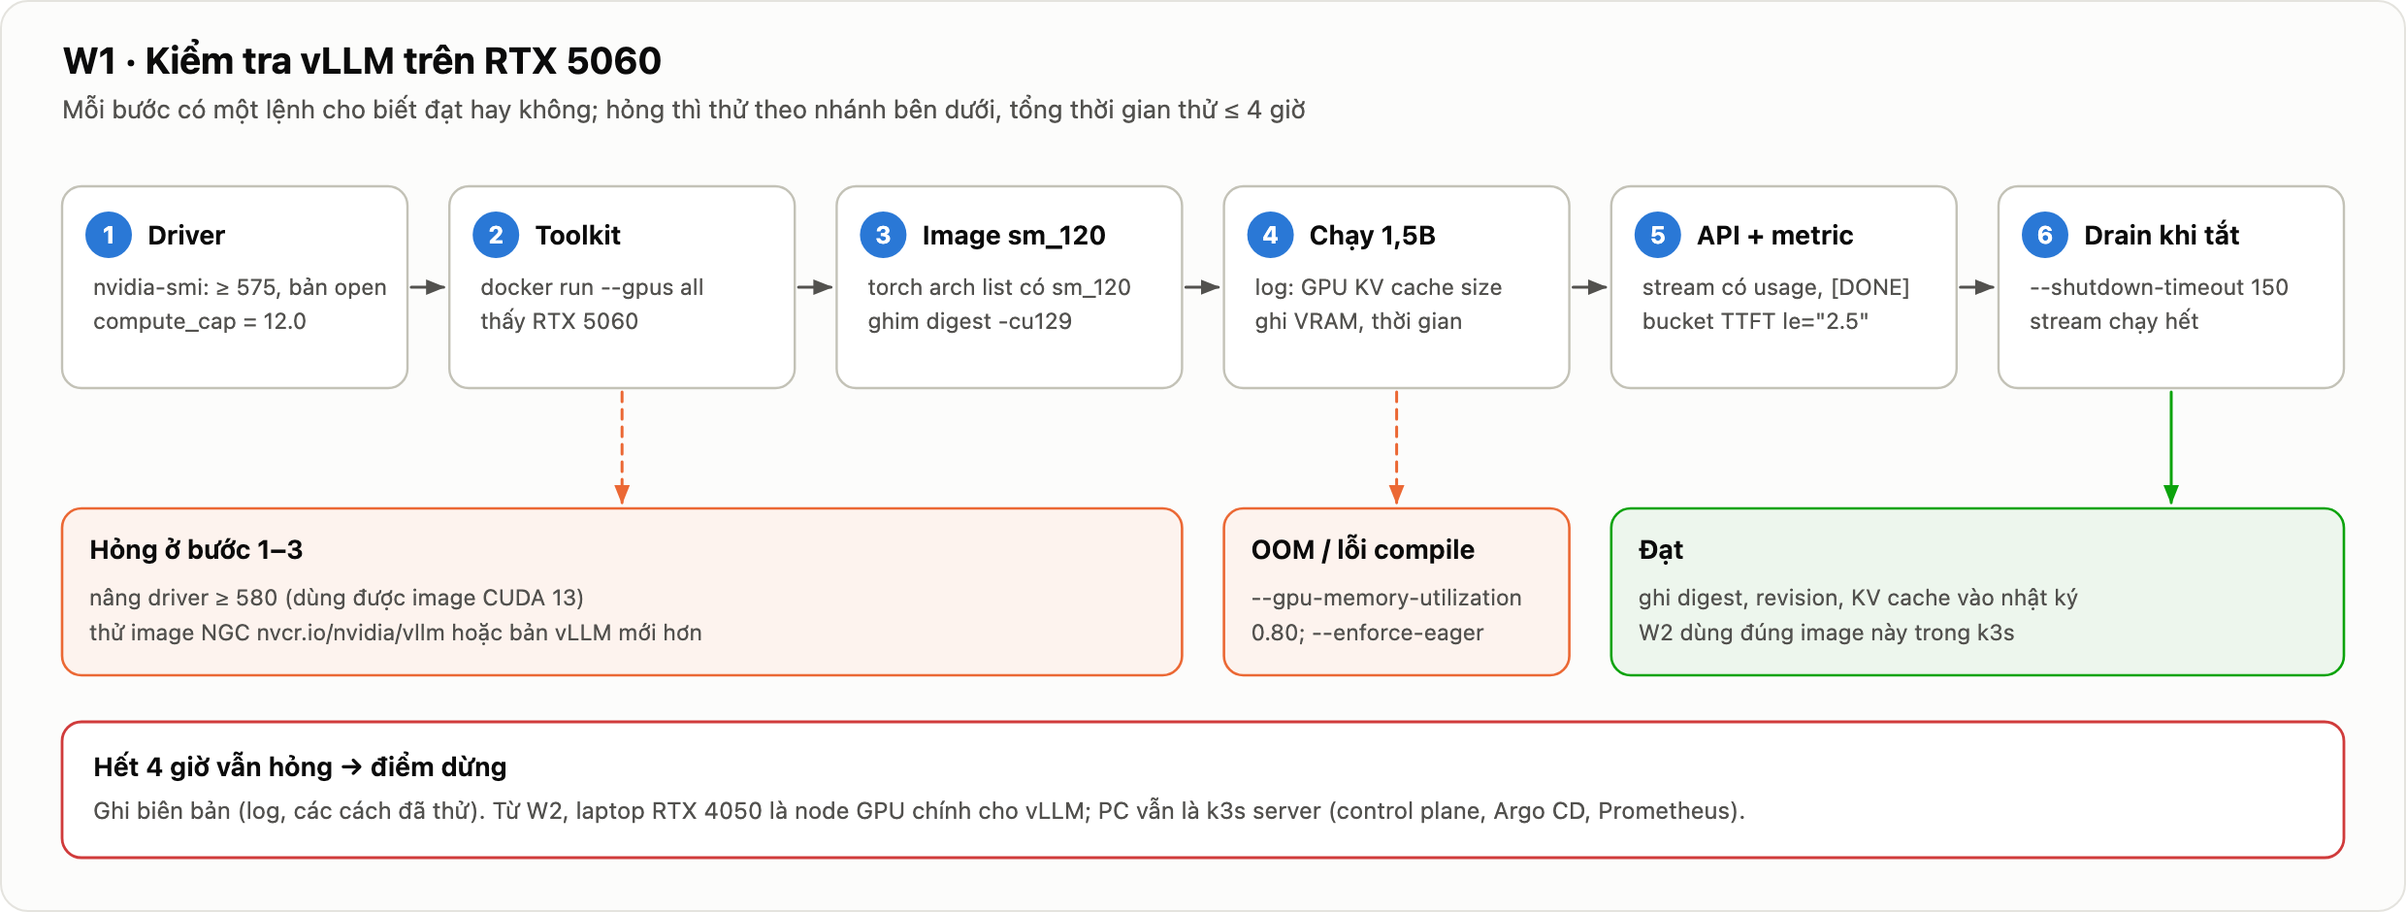
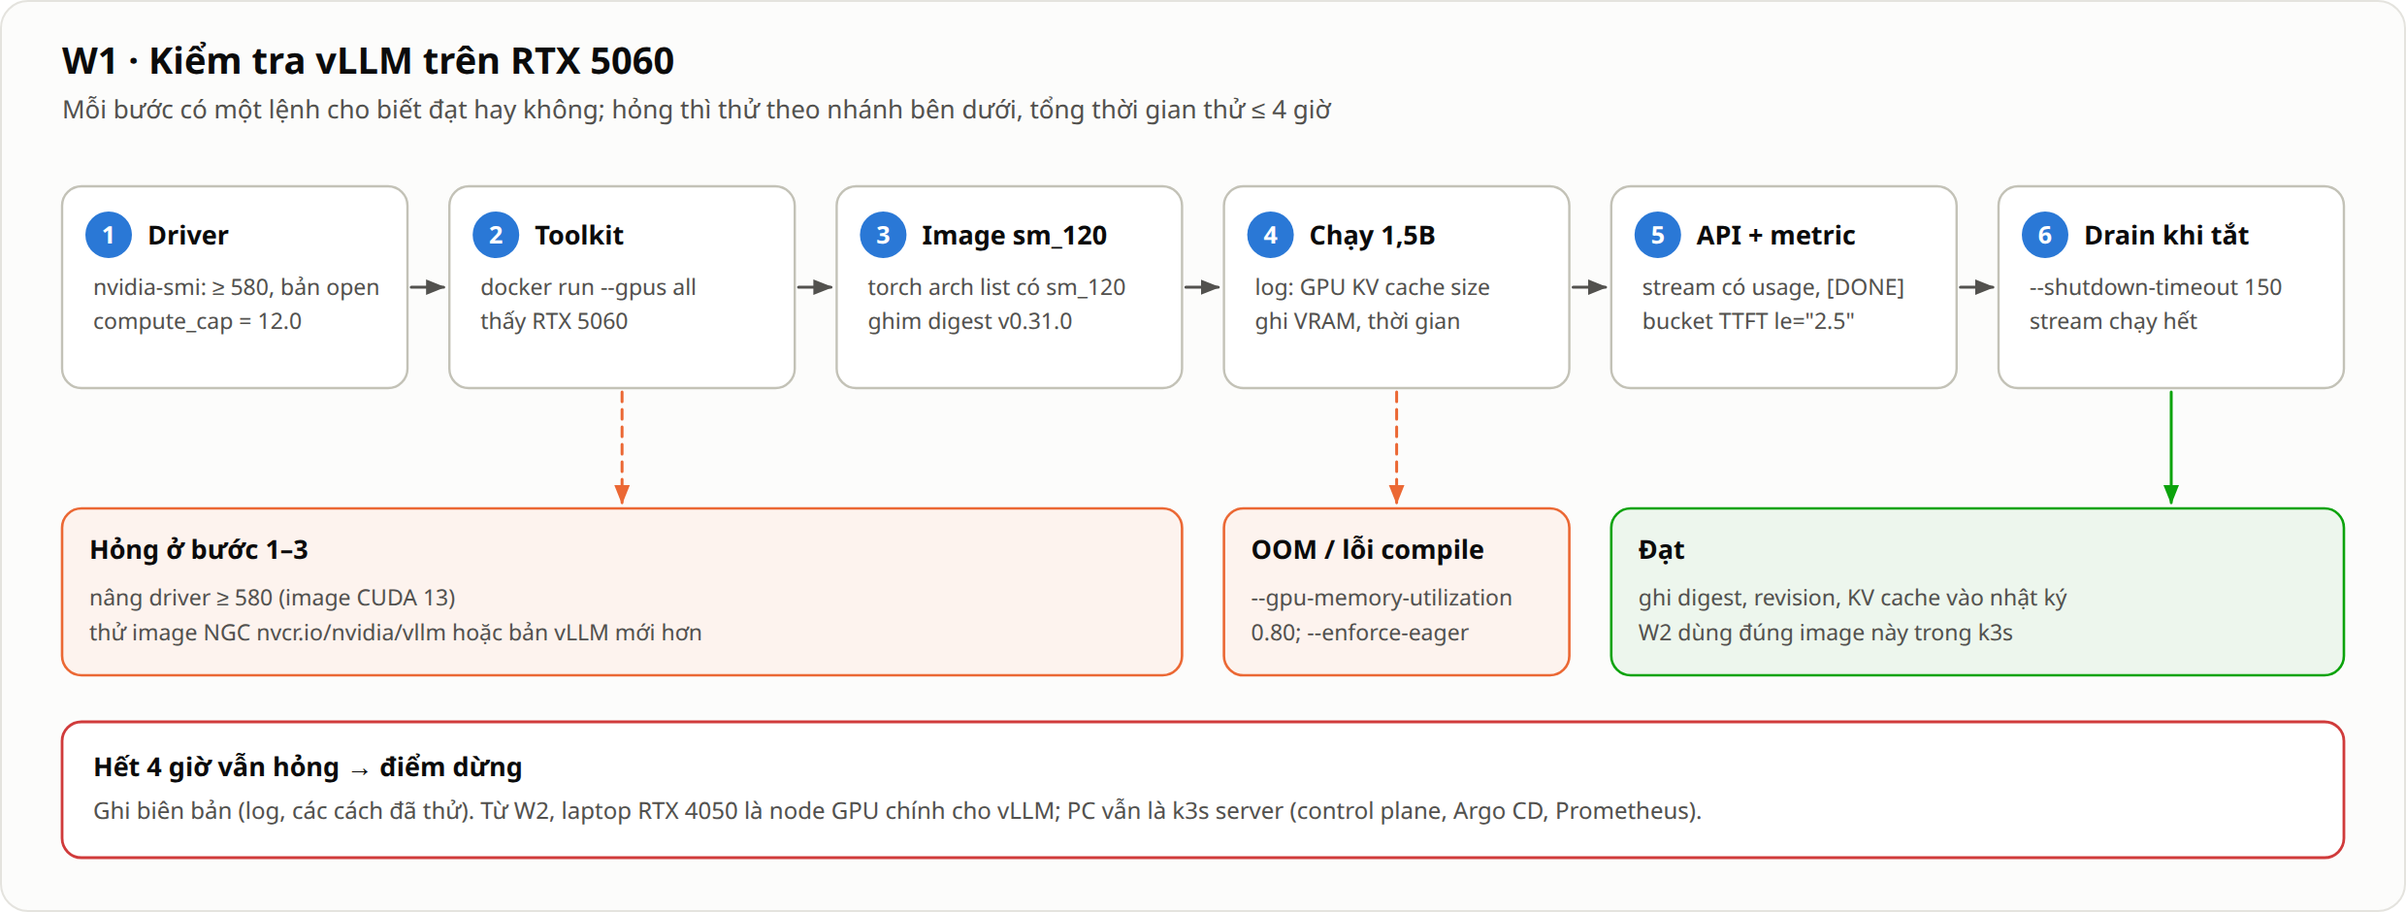
docs: pin vLLM v0.31.0 (CUDA 13), add W1 results on RTX 5060
The v0.31.0-cu129 image fails at startup: its torchcodec is built for
CUDA 13 and needs libnvrtc.so.13, which the image does not ship.
v0.31.0 (CUDA 13) runs on the RTX 5060, so pin it and raise the driver
requirement to >= 580 for every GPU host.

diff --git a/docs/diagrams/huong_dan.py b/docs/diagrams/huong_dan.py
@@ -16,9 +16,9 @@ def fig_w1_vllm():
     s.header("W1 · Kiểm tra vLLM trên RTX 5060",
              "Mỗi bước có một lệnh cho biết đạt hay không; hỏng thì thử theo nhánh bên dưới, tổng thời gian thử ≤ 4 giờ")
     steps = [
-        ("Driver", ["nvidia-smi: ≥ 575, bản open", "compute_cap = 12.0"]),
+        ("Driver", ["nvidia-smi: ≥ 580, bản open", "compute_cap = 12.0"]),
         ("Toolkit", ["docker run --gpus all", "thấy RTX 5060"]),
-        ("Image sm_120", ["torch arch list có sm_120", "ghim digest -cu129"]),
+        ("Image sm_120", ["torch arch list có sm_120", "ghim digest v0.31.0"]),
         ("Chạy 1,5B", ["log: GPU KV cache size", "ghi VRAM, thời gian"]),
         ("API + metric", ["stream có usage, [DONE]", "bucket TTFT le=\"2.5\""]),
         ("Drain khi tắt", ["--shutdown-timeout 150", "stream chạy hết"]),
@@ -33,7 +33,7 @@ def fig_w1_vllm():
     # nhánh khi hỏng
     fy = 262
     fails = [
-        (0, 3, "Hỏng ở bước 1–3", ["nâng driver ≥ 580 (dùng được image CUDA 13)",
+        (0, 3, "Hỏng ở bước 1–3", ["nâng driver ≥ 580 (image CUDA 13)",
                                    "thử image NGC nvcr.io/nvidia/vllm hoặc bản vLLM mới hơn"]),
         (3, 4, "OOM / lỗi compile", ["--gpu-memory-utilization", "0.80; --enforce-eager"]),
         (4, 6, "Đạt", ["ghi digest, revision, KV cache vào nhật ký", "W2 dùng đúng image này trong k3s"]),

diff --git a/docs/nhat-ky/lam-viec/quang/tuan-03.md b/docs/nhat-ky/lam-viec/quang/tuan-03.md
@@ -1,0 +1,40 @@
+# Nhật ký làm việc – Quang – Tuần 03 (19–25/10)
+
+## 2026-10-23 – Làm bù W1: vLLM trên RTX 5060
+
+- **Mã việc:** Q3 (chuẩn bị), rủi ro R23 · **Môi trường:** nhà (PC `zett-ubuntu-pc`, chạy bằng Docker)
+- **Đã làm:**
+  1. Kiểm tra PC theo `w1.md` §1–§2: RTX 5060, driver 595.99.02 bản open, compute_cap 12.0; Docker 29.1.3 có runtime `nvidia`; toolkit 1.20.1; container `nvidia/cuda:12.9.1-base` thấy GPU. Tất cả đã có sẵn, không cài gì thêm.
+  2. Kéo `vllm/vllm-openai:v0.31.0-cu129` (28 phút 45 giây ở ~11 MB/s, 37,7 GB sau giải nén). Digest khớp giá trị tham chiếu trong `w1.md`. Image có `sm_120`, torch thấy `NVIDIA GeForce RTX 5060 (12, 0)`.
+  3. Chạy vLLM bằng `-cu129`: chết sau 15 s.
+  4. Chuyển sang `vllm/vllm-openai:v0.31.0` (bản CUDA 13 đã có sẵn trên máy dưới tag `latest`, digest trùng tag `v0.31.0` trên Docker Hub): khởi động được.
+  5. Kiểm tra theo §3.4: health, `/v1/models`, streaming, metric, bucket TTFT, cờ, `vllm bench serve`.
+  6. Thử `--shutdown-timeout 150` (§3.5), rồi chạy lại với `--shutdown-timeout 0` làm ca đối chứng (đồng thời đo khởi động khi đã có cache model).
+- **Quyết định và lý do:** dùng `v0.31.0` (CUDA 13) cho lần thử, vì PC có driver 595 ≥ 580 và image đã có sẵn, không phải tải thêm ~30 GB. **Chưa đổi ghim trong repo**: `serving/base/kustomization.yaml` và `docs/phien-ban.md` vẫn ghi `-cu129`. Cần chọn giữa `v0.31.0` (laptop và VM phải có driver ≥ 580) và `v0.32.0-cu129` (chưa thử, chưa biết đã sửa lỗi chưa).
+- **Kết quả và số đo:**
+  - Khởi động lần đầu 486 s, trong đó tải và nạp model 327 s, `torch.compile` 10 s, capture CUDA graph 42 s + 38 s. Có cache model: 167 s (nạp weights 13 s, `torch.compile` 9,3 s, capture CUDA graph 42 s + 50 s, init engine 110 s).
+  - `GPU KV cache size: 101,120 tokens`, `Maximum concurrency for 4,096 tokens per request: 24.69x`; KV-cache 2,7 GiB; model 2,98 GiB; VRAM 6864/8151 MiB với `--gpu-memory-utilization 0.85`.
+  - Streaming: 67 dòng `data:`, usage 36 + 64 token, có `[DONE]`. Có `vllm:num_requests_running`, `vllm:num_requests_waiting`; bucket TTFT có `le="2.5"`; có cờ `--shutdown-timeout`, `--no-enable-prefix-caching`, `--api-key`.
+  - `vllm bench serve` (random, input 512, output 256, `--ignore-eos`, c=8, 64 prompt): 64/64 thành công; TTFT trung bình 224 ms, p50 249 ms, p99 344 ms; TPOT p50 9,30 ms, p99 10,03 ms; output 782 tok/s (đỉnh 896). Chỉ để kiểm tra máy chạy hợp lý, không phải số liệu đánh giá.
+  - Drain (`--shutdown-timeout 150`): SIGTERM khi stream 1000 token mới có 13 chunk; log `stopping engine client mode=drain timeout=150s`; stream nhận đủ 1000/1000 token, có `[DONE]` sau 8,6 s; container thoát sau 14,1 s.
+  - Đối chứng (`--shutdown-timeout 0`): log `mode=abort timeout=0s`; stream cắt sau 10 chunk, không có `[DONE]`, curl exit 18.
+- **Sự cố:**
+  - `v0.31.0-cu129` không khởi động được: `OSError: libnvrtc.so.13: cannot open shared object file` → `Could not load .../torchcodec/libtorchcodec_image.so`. Nguyên nhân: image có `torchcodec 0.17.0` (bản build cho CUDA 13) trong khi chỉ có `libnvrtc.so.12`; vLLM import `torchcodec` ngay lúc khởi động (`vllm.multimodal.audio`). Đã kiểm chứng bằng `python3 -c 'import torchcodec.decoders'`: lỗi trên `-cu129`, chạy được trên `v0.31.0` (`torchcodec 0.17.0+cu130`). Cách xử lý: tạm dùng `v0.31.0`; chưa thử build lại image hay `v0.32.0-cu129`.
+  - Ở ca đối chứng, engine bị kill ngay nhưng HTTP server dừng ở `Shutting down` và không tự thoát; Docker SIGKILL sau 160 s (exit 137). Ca drain không bị. Chưa rõ nguyên nhân, có thể do server chờ kết nối đang mở. Cần để ý ở W3: trong k8s thì `terminationGracePeriodSeconds` sẽ quyết định khi nào pod bị kill.
+  - Model 1,5B trả lời câu hỏi tiếng Việt bằng tiếng Trung. Không ảnh hưởng việc đo; prompt của máy tạo tải nên dùng tiếng Anh.
+- **Khác thiết kế:**
+  - `w1.md` §1 và `docs/phien-ban.md` chọn `-cu129`, nhưng bản này hỏng. Thực tế chạy `v0.31.0` (CUDA 13).
+  - Khi khởi động có cache, `torch.compile` vẫn mất 9,3 s và capture CUDA graph vẫn mất ~90 s, vì lệnh Docker chỉ mount `~/.cache/huggingface`, còn cache compile nằm ở `/root/.cache/vllm` không được giữ. Liên quan L2 (compile cache, Q4): manifest phải mount cả thư mục này.
+  - Chưa làm phần còn lại của W1: laptop, kind + simulator, offer Vast, quota GCP.
+- **Liên kết:** `docs/nhat-ky/tuan-01.md`, `docs/huong-dan/w1.md` §1–§3.
+
+## 2026-10-23 – Chốt image vLLM `v0.31.0` (CUDA 13)
+
+- **Mã việc:** Q3 · **Môi trường:** không
+- **Đã làm:** đổi ghim image từ `v0.31.0-cu129` sang `vllm/vllm-openai:v0.31.0@sha256:c1c9f6fd5c109ba7f0546a59f5b2f15fb87f64c77782e90a27b648b42a8e67c3` ở `docs/phien-ban.md`; sửa yêu cầu driver thành ≥ 580 ở `w1.md`, `w2.md`, `.env.example`; thêm lỗi `libnvrtc.so.13` vào bảng lỗi của `w1.md`; sửa chữ trong hình 18; thêm một dòng vào ADR-004 §7. Điền driver 595.99.02, toolkit 1.20.1, Ubuntu 26.04.1 của PC vào `phien-ban.md`.
+- **Quyết định và lý do:** chọn `v0.31.0` vì là bản duy nhất đã chạy thật trên 5060 và đã có trên PC. Bỏ `v0.32.0-cu129`: chưa thử, phải tải thêm ~30 GB trong khi ổ PC còn ~31 GB, và đổi minor version có thể đổi cờ hoặc metric đã kiểm tra.
+- **Khác thiết kế:** yêu cầu driver tăng từ ≥ 575 lên ≥ 580 cho mọi máy GPU. Laptop và template VM Vast chưa kiểm tra. Ubuntu trên PC là 26.04.1 bản desktop, không phải 24.04 server như `phien-ban.md` ghi trước đây.
+- **Sự cố:** chưa sửa được `serving/base/kustomization.yaml` vì file này chỉ có trên nhánh `temp/w2-scaffold`; sửa khi tách nhánh serving.
+- **Liên kết:** `docs/phien-ban.md`, `docs/adr/004-dieu-kien-thuc-te-va-pham-vi-rut-gon.md` §7.
+- **Dùng cho luận văn:** §4.3 (chọn và ghim image, vì sao ghim digest, lỗi đóng gói của image `-cu129`).
+- **Dùng cho luận văn:** §4.3 (chọn image vLLM, lỗi `-cu129`); chương 5 phần cold start (486 s / 167 s và các pha); N4 graceful shutdown (bằng chứng drain và đối chứng trước khi lên k8s); LT2 (KV-cache 101.120 token trên 2,7 GiB ≈ 28 KB/token, khớp dự đoán 16/10). Nên chụp log `[shutdown] … mode=drain` và bảng kết quả `vllm bench`.

diff --git a/docs/huong-dan/w1.md b/docs/huong-dan/w1.md
@@ -65,7 +65,7 @@ df -h / ; free -h
 | Kiểm tra | Đạt khi | Nếu không đạt |
 |---|---|---|
 | `compute_cap` | `12.0` | Không phải RTX 50, kiểm tra lại máy |
-| Driver | ≥ **575** (dùng image `-cu129`); ≥ **580** thì dùng được cả image mặc định CUDA 13 | `sudo apt install nvidia-driver-580-open` (hoặc nhánh mới hơn có hậu tố `-open`), rồi reboot |
+| Driver | ≥ **580** (image vLLM CUDA 13) | `sudo apt install nvidia-driver-580-open` (hoặc nhánh mới hơn có hậu tố `-open`), rồi reboot |
 | License | `Dual MIT/GPL` | Gỡ bản đóng, cài lại bản `-open` |
 | Tiến trình dùng GPU | Không có (hoặc chỉ vài MB) | `sudo systemctl set-default multi-user.target && sudo reboot` |
 | Ổ trống | ≥ 100 GB, tốt nhất 200 GB | Dọn ổ; image vLLM khoảng 11 GB nén, 25–30 GB sau giải nén |
@@ -74,7 +74,7 @@ df -h / ; free -h
 > - `vllm/vllm-openai:v0.31.0`: CUDA 13.0, cần driver ≥ 580.
 > - `vllm/vllm-openai:v0.31.0-cu129`: CUDA 12.9, cần driver ≥ 575.
 >
-> Cả hai đều có kernel cho `sm_120` (RTX 50) và `sm_89` (RTX 40). File này dùng **`-cu129`**: ít đòi hỏi driver hơn, chạy được trên cả PC lẫn laptop, và gần với driver của template VM trên Vast.
+> Cả hai đều có kernel cho `sm_120` (RTX 50) và `sm_89` (RTX 40). File này dùng **`v0.31.0` (CUDA 13)**. Bản `-cu129` ít đòi hỏi driver hơn nhưng **hỏng ngay lúc khởi động**: image kèm `torchcodec` build cho CUDA 13, đòi `libnvrtc.so.13` mà image chỉ có bản 12, nên vLLM chết khi import (kiểm tra ngày 23/10, [nhật ký tuần 1](../nhat-ky/tuan-01.md)). Hệ quả: PC, laptop và template VM trên Vast đều phải có driver ≥ 580.
 
 **Đặt IP tĩnh cho PC** (cần cho W2, vì laptop join cluster bằng IP này). Cách dễ nhất là đặt DHCP reservation trên router theo MAC của PC. Nếu không vào được router, dùng netplan:
 
@@ -136,14 +136,14 @@ docker run --rm --gpus all nvidia/cuda:12.9.1-base-ubuntu24.04 nvidia-smi
 ### 3.1. Kéo image và ghim digest
 
 ```bash
-IMG=vllm/vllm-openai:v0.31.0-cu129
-docker pull $IMG                                         # ~11 GB, khoảng 6–10 phút ở 30 MB/s
+IMG=vllm/vllm-openai:v0.31.0
+docker pull $IMG                                         # ~11 GB nén, ~32 GB sau giải nén; ~30 phút ở 11 MB/s
 docker inspect --format '{{index .RepoDigests 0}}' $IMG  # → vllm/vllm-openai@sha256:…
 ```
 
 **Vì sao ghim theo digest chứ không theo tag:** tag có thể bị đẩy đè (một số dự án build lại tag cũ để vá lỗi). Digest là mã băm của chính nội dung image, nên dùng digest đảm bảo PC, laptop và VM trên Vast chạy **đúng một bản**, kể cả nhiều tuần sau. Đây là yêu cầu N8 (mọi phiên bản được ghim).
 
-Giá trị tham chiếu tra trên Docker Hub ngày 09/10/2026: `v0.31.0-cu129` có digest `sha256:ff29e51a9457f191deb332b96fa6440584fa941aa2a548449b604e2b1e5e1eeb`. Nếu lệnh trên cho ra giá trị khác, dùng giá trị **bạn thấy** và ghi lại.
+Giá trị tham chiếu tra trên Docker Hub ngày 23/10/2026: `v0.31.0` có digest `sha256:c1c9f6fd5c109ba7f0546a59f5b2f15fb87f64c77782e90a27b648b42a8e67c3`. Nếu lệnh trên cho ra giá trị khác, dùng giá trị **bạn thấy** và ghi lại.
 
 ### 3.2. Image có kernel cho sm_120 không
 
@@ -261,7 +261,8 @@ Bấm giờ từ lúc bắt đầu §3.1. Thử theo thứ tự dưới đây, *
 
 | Triệu chứng | Nguyên nhân hay gặp | Thử |
 |---|---|---|
-| `CUDA driver version is insufficient` | Driver cũ hơn CUDA của image | Dùng `-cu129`; hoặc nâng driver lên ≥ 580 |
+| `CUDA driver version is insufficient` | Driver cũ hơn CUDA của image | Nâng driver lên ≥ 580 |
+| `libnvrtc.so.13: cannot open shared object file` (từ `torchcodec`) | Đang dùng image `-cu129` của v0.31.0 (lỗi đóng gói) | Dùng `v0.31.0` |
 | `no kernel image is available` | Image không có `sm_120` | Thử bản vLLM mới hơn; thử image NGC `nvcr.io/nvidia/vllm` (có hỗ trợ Blackwell) |
 | OOM khi khởi động hoặc khi capture CUDA graph | 8 GB không đủ cho phần dự trữ | `--gpu-memory-utilization 0.80`; thêm `--enforce-eager` (bỏ CUDA graph, chậm hơn một chút) |
 | Lỗi Triton/FlashInfer khi compile | Thư viện chưa hỗ trợ đủ sm_120 | Thêm `--enforce-eager`; nếu vẫn lỗi, ghi log và chuyển nhánh |
@@ -534,7 +535,7 @@ Tạo `docs/nhat-ky/tuan-01.md` theo mẫu, commit lên nhánh `feat/w1-notes`:
 | Mục | Giá trị |
 |---|---|
 | Driver / compute_cap | 580.xx / 12.0 |
-| Image | vllm/vllm-openai:v0.31.0-cu129@sha256:… |
+| Image | vllm/vllm-openai:v0.31.0@sha256:… |
 | Model | Qwen/Qwen2.5-1.5B-Instruct@989aa79… |
 | GPU KV cache size / Maximum concurrency | … tokens / … x |
 | VRAM khi chạy | … / 8151 MiB |

diff --git a/docs/nhat-ky/tuan-01.md b/docs/nhat-ky/tuan-01.md
@@ -1,0 +1,40 @@
+# Tuần 1 (08–11/10/2026)
+
+> Phần vLLM trên RTX 5060 làm bù ngày 23/10 (tuần 03). Chi tiết từng bước: [nhật ký Quang tuần 03](lam-viec/quang/tuan-03.md).
+
+## Đã làm
+- Kiểm tra lại PC: driver, kernel module open, Docker, NVIDIA Container Toolkit (đã có sẵn từ trước).
+- Chạy thử vLLM trên RTX 5060: **chạy được** với image `v0.31.0` (CUDA 13). Image `v0.31.0-cu129` theo hướng dẫn **không khởi động được** (lỗi đóng gói, xem dưới).
+- Kiểm tra API, streaming, metric, bucket TTFT, cờ; đo nhanh bằng `vllm bench serve`; thử `--shutdown-timeout` có ca đối chứng.
+
+## Kết quả kiểm tra vLLM trên RTX 5060
+| Mục | Giá trị |
+|---|---|
+| Driver / compute_cap | 595.99.02 (open, `Dual MIT/GPL`) / 12.0; CUDA tối đa 13.2 |
+| Image dùng được | `vllm/vllm-openai:v0.31.0@sha256:c1c9f6fd5c109ba7f0546a59f5b2f15fb87f64c77782e90a27b648b42a8e67c3` (CUDA 13.0, torch 2.13.0+cu130) |
+| Image không dùng được | `vllm/vllm-openai:v0.31.0-cu129@sha256:ff29e51a9457f191deb332b96fa6440584fa941aa2a548449b604e2b1e5e1eeb`: có `sm_120` nhưng vLLM chết lúc import vì `torchcodec` build cho CUDA 13 (`libnvrtc.so.13` không có) |
+| Model | `Qwen/Qwen2.5-1.5B-Instruct@989aa7980e4cf806f80c7fef2b1adb7bc71aa306` (khớp HF ngày 23/10) |
+| GPU KV cache size / Maximum concurrency | 101.120 tokens / 24,69 x (4096 token/request) |
+| VRAM khi chạy | 6864 / 8151 MiB (desktop chiếm sẵn ~610 MiB) |
+| Khởi động (lần đầu / có cache model) | 486 s (tải model 327 s) / 167 s |
+| Bucket TTFT có le="2.5" | có |
+| Cờ `--shutdown-timeout`, `--no-enable-prefix-caching`, `--api-key` | có cả ba |
+| --shutdown-timeout 150 drain được stream | có: stream 1000/1000 token, có `[DONE]`; container thoát sau 14,1 s |
+| Đối chứng --shutdown-timeout 0 | stream bị cắt sau 10 chunk, không có `[DONE]` |
+| vllm bench (c=8, in 512, out 256, 64 prompt) | TTFT p50 249 ms / p99 344 ms; TPOT p50 9,3 ms; 782 tok/s output; 0 lỗi |
+
+## Máy và mạng
+- PC: `zett-ubuntu-pc`, LAN 192.168.0.100 (chưa kiểm tra là IP tĩnh hay DHCP reservation), Tailscale đã chạy (cùng tailnet với máy `quangnv3-d8-u`).
+- Laptop: chưa làm trong phiên này.
+
+## Vast
+- Chưa làm (không có bảng offer 10/10, 11/10).
+
+## Vướng mắc / rủi ro
+- **Đã chọn image `v0.31.0` (CUDA 13)** thay cho `-cu129` (ADR-004 §7, 23/10). Rủi ro mới: laptop và template VM Vast phải có driver ≥ 580; chưa kiểm tra laptop.
+- `serving/base/kustomization.yaml` (đang ở nhánh `temp/w2-scaffold`) vẫn ghim `-cu129`; sửa khi tách nhánh serving (Q3).
+- Ổ PC còn ~31 GB trống, dưới mức 100 GB của W1 §1.
+- Chưa làm: laptop, kind + simulator, offer Vast, quota GCP.
+
+## Tuần sau
+- Tiếp W2: Q1 k3s trên PC; khi tách serving (Q3) thì sửa ghim image trong `serving/base/kustomization.yaml` và mount thêm cache compile `/root/.cache/vllm`.

diff --git a/docs/huong-dan/w2.md b/docs/huong-dan/w2.md
@@ -245,7 +245,7 @@ Nếu `ping` không có trả lời: trên laptop chạy `sudo iptables -L FORWA
 
 ```bash
 # Trên PC
-docker save vllm/vllm-openai:v0.31.0-cu129 | sudo k3s ctr images import -
+docker save vllm/vllm-openai:v0.31.0 | sudo k3s ctr images import -
 sudo k3s ctr images ls | grep vllm-openai
 ```
 
@@ -603,7 +603,7 @@ Chỉ file này phụ thuộc Vast. Nếu chuyển sang GCP, chỉ viết lại 
 - **`release` tính chi phí** theo giờ thực tế × giá, và ghi vào `cost.log`. Từ W4, `release` sẽ kiểm tra backup trước khi huỷ ([R13](../chi-tiet/06-ke-hoach-quan-ly.md#92-sổ-đăng-ký-rủi-ro)).
 - **`tunnel`:** API server của VM không mở ra Internet. `kubectl` trên laptop đi qua SSH tunnel tới `127.0.0.1:16443`, đúng với `kubeconfig_server` trong `group_vars/cloud.yaml`.
 
-**Chọn template VM (một lần):** trên console.vast.ai → *Templates*, lọc loại **VM**, chọn template Ubuntu (22.04 hoặc 24.04) có sẵn driver NVIDIA và CUDA. Mở template, chép **template hash** vào `.env` (`VAST_VM_TEMPLATE=…`). Ghi tên template và phiên bản driver của nó vào `docs/phien-ban.md`. Driver phải ≥ 575 để chạy image `-cu129`.
+**Chọn template VM (một lần):** trên console.vast.ai → *Templates*, lọc loại **VM**, chọn template Ubuntu (22.04 hoặc 24.04) có sẵn driver NVIDIA và CUDA. Mở template, chép **template hash** vào `.env` (`VAST_VM_TEMPLATE=…`). Ghi tên template và phiên bản driver của nó vào `docs/phien-ban.md`. Driver phải ≥ **580** để chạy image vLLM `v0.31.0` (CUDA 13); template có driver 575 thì không dùng được.
 
 ### 11.3. Quy trình V0
 

diff --git a/docs/adr/004-dieu-kien-thuc-te-va-pham-vi-rut-gon.md b/docs/adr/004-dieu-kien-thuc-te-va-pham-vi-rut-gon.md
@@ -100,3 +100,4 @@ Các mục còn lại của ADR-001 và ADR-002 giữ nguyên.
 | 15/10/2026 | §6 | GVHD không yêu cầu duyệt chi tiết phạm vi; nhóm coi phạm vi rút gọn là đã chốt, chỉ báo cáo tiến độ theo các buổi ở [Kế hoạch §7](../chi-tiet/06-ke-hoach-quan-ly.md#7-quy-trình-làm-việc-và-nhịp-với-gvhd) |
 | 16/10/2026 | K3 | Ngoại lệ có chủ đích cho "không dùng số liệu hiệu năng ở nhà": kiểm chứng lý thuyết LT1–LT8 dùng số đo ở nhà để kiểm tra **công thức**, không báo cáo hiệu năng của nền tảng ([Môi trường §19](../chi-tiet/05-moi-truong-danh-gia.md#19-kiểm-chứng-lý-thuyết-lt1lt8)) |
 | 16/10/2026 | K8 | Khi phải cắt phạm vi, **không cắt ca đối chứng** (A1, L0) mà giảm số lượt lặp ([Kế hoạch §8](../chi-tiet/06-ke-hoach-quan-ly.md#8-dự-phòng-và-cắt-giảm-phạm-vi)) |
+| 23/10/2026 | N8 | Image vLLM đổi từ `v0.31.0-cu129` sang **`v0.31.0` (CUDA 13)**: bản `-cu129` hỏng lúc khởi động vì `torchcodec` đòi `libnvrtc.so.13`. Bản `v0.31.0` đã chạy được trên RTX 5060. Hệ quả: **mọi máy GPU (PC, laptop, VM Vast) cần driver ≥ 580**. Không chọn `v0.32.0-cu129` vì chưa thử và phải tải thêm ~30 GB ([nhật ký tuần 1](../nhat-ky/tuan-01.md), [phien-ban.md](../phien-ban.md)) |
